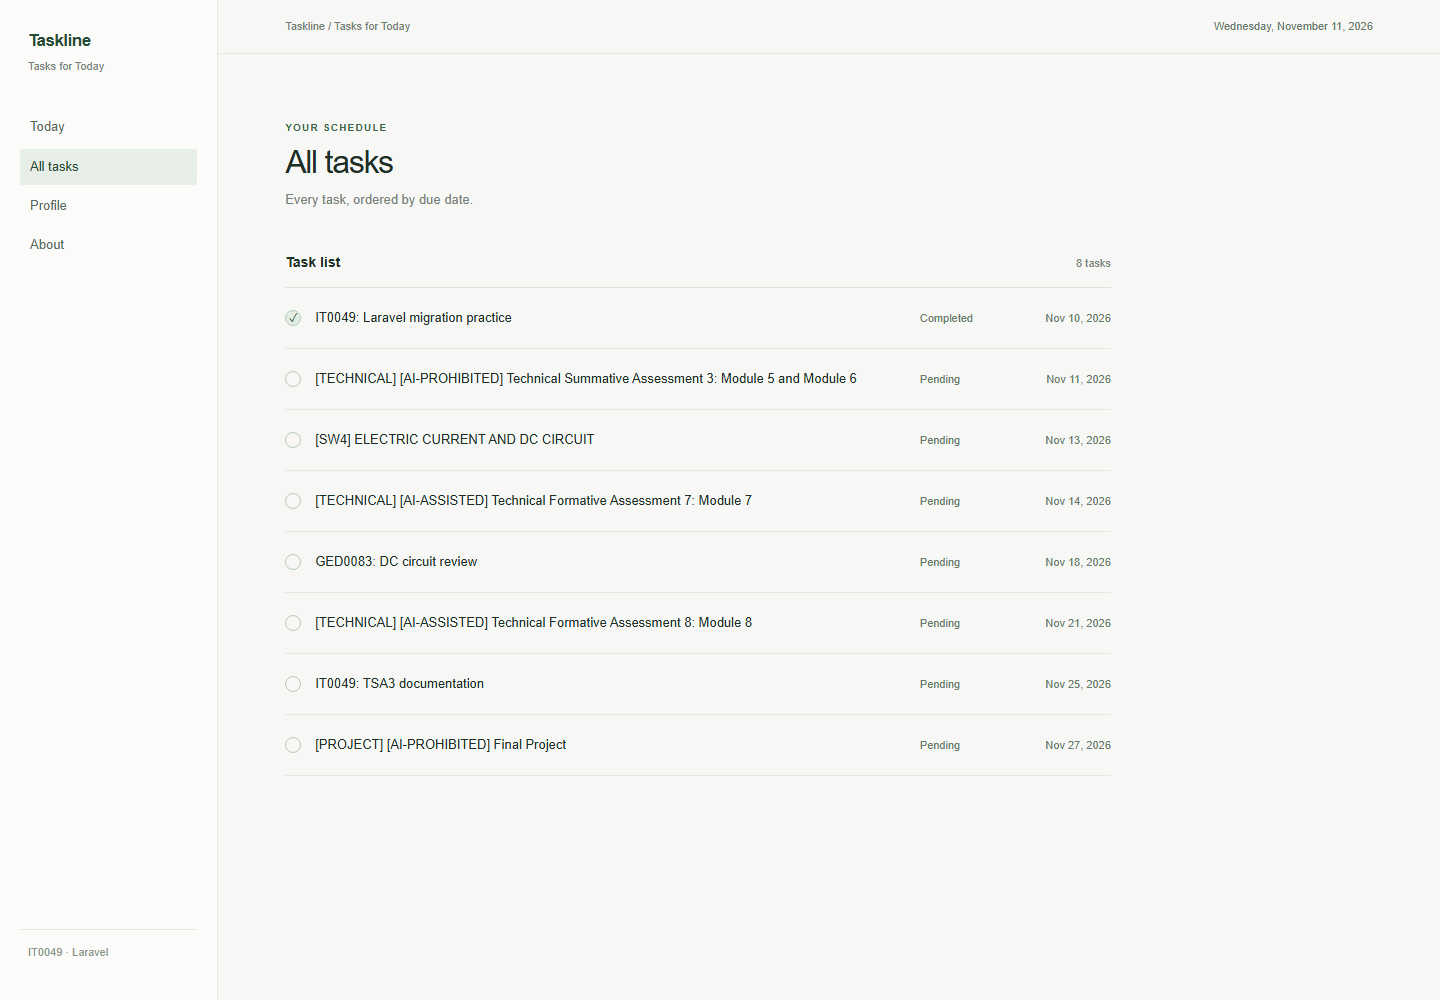
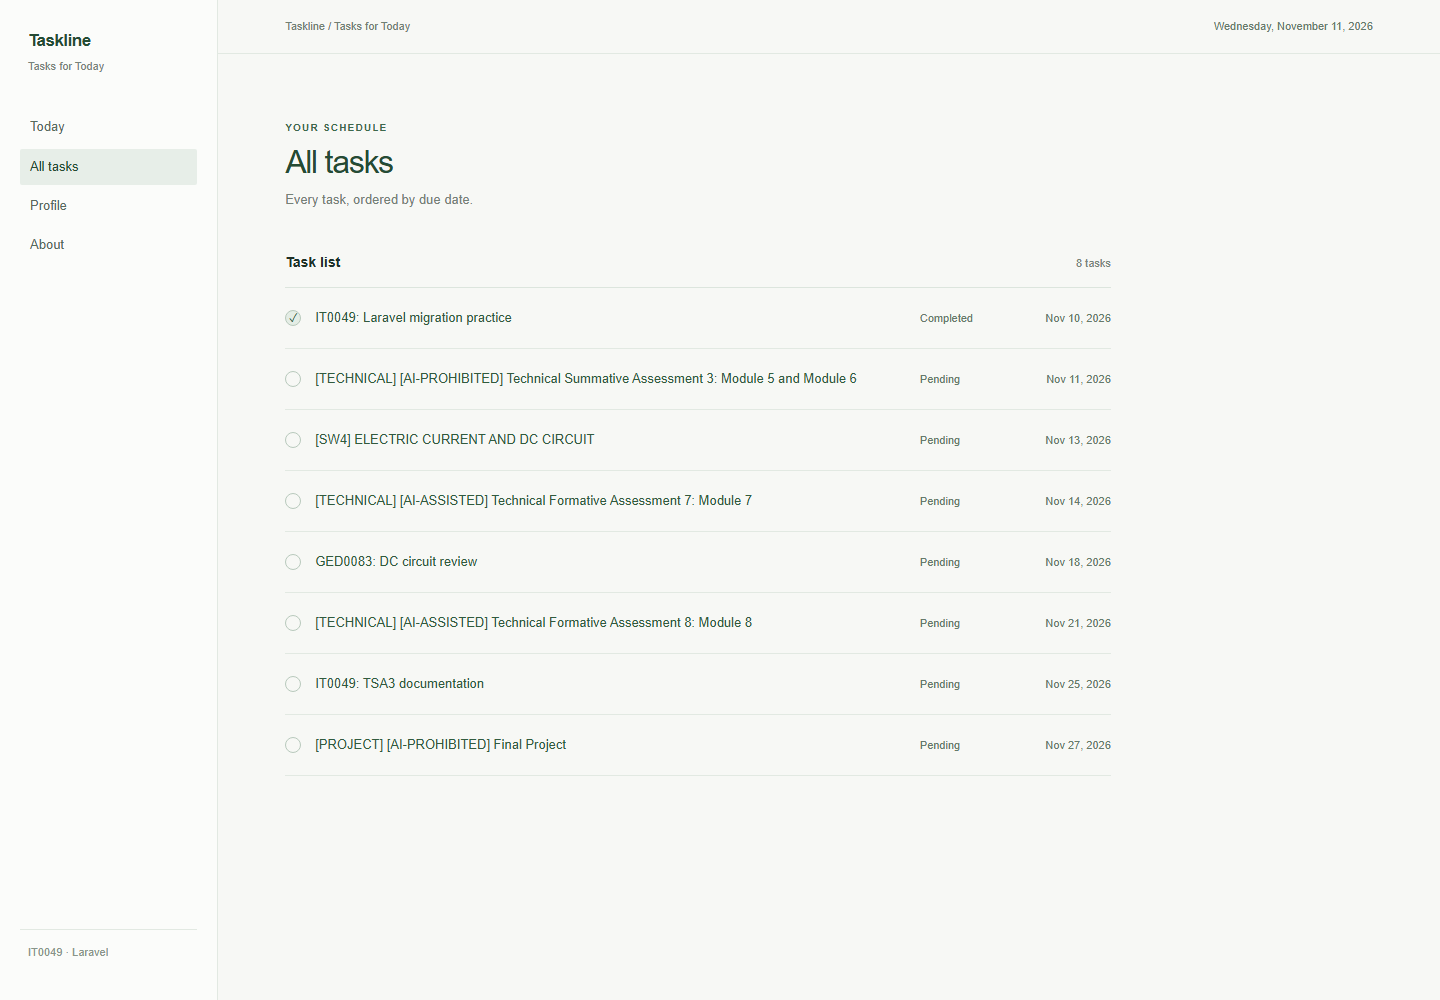
Add green accents to page titles

diff --git a/public/css/style.css b/public/css/style.css
@@ -1,2 +1,2 @@
 :root{font-family:Arial,Helvetica,sans-serif;color:#1f2f27;background:#f7f8f5;font-synthesis:none}
-*{box-sizing:border-box}body{margin:0;font-size:14px;line-height:1.55}a{color:inherit;text-decoration:none}.shell{min-height:100vh}.sidebar{position:fixed;inset:0 auto 0 0;width:218px;padding:28px 20px;background:#fbfcfa;border-right:1px solid #e2e9e2;display:flex;flex-direction:column}.brand{font-size:17px;font-weight:700;letter-spacing:-.03em;color:#254b34;margin:0 8px}.sidebar-note{margin:4px 8px 34px;font-size:11px;color:#78847a}.sidebar nav{display:grid;gap:3px}.sidebar nav a{padding:8px 10px;color:#586b5e;border-radius:2px;font-size:13px}.sidebar nav a:hover,.sidebar nav a.active{background:#e7eee8;color:#254b34}.sidebar-footer{margin-top:auto;padding:14px 8px 0;border-top:1px solid #e2e9e2;font-size:11px;color:#89958a}main{margin-left:218px}.topbar{min-height:54px;padding:0 5.5%;display:flex;justify-content:space-between;align-items:center;border-bottom:1px solid #e2e9e2;color:#718073;font-size:11px}.content{max-width:960px;padding:66px 5.5% 80px}.page-heading{margin-bottom:42px}.eyebrow{font-size:10px;font-weight:700;letter-spacing:.12em;color:#3d694c;margin:0 0 8px}.page-heading h1{margin:0;font-size:32px;font-weight:500;letter-spacing:-.04em;line-height:1.15}.page-heading>p:last-child{margin:10px 0 0;color:#758177;font-size:13px}.list-section{max-width:850px}.list-heading{display:flex;justify-content:space-between;align-items:center;border-bottom:1px solid #dce5dd;padding-bottom:13px}.list-heading h2{font-size:14px;margin:0;font-weight:600}.list-heading span{font-size:11px;color:#78847a}.task-row{display:grid;grid-template-columns:18px minmax(0,1fr) 85px 94px;align-items:center;gap:12px;min-height:61px;border-bottom:1px solid #e2e9e2}.task-mark{display:inline-flex;align-items:center;justify-content:center;width:16px;height:16px;border:1px solid #b8c9bc;border-radius:50%;color:#315b3e;font-size:12px}.task-mark.done{background:#e4ede5}.task-title{font-size:13px;line-height:1.4}.status,time{font-size:11px;color:#677a6b}time{text-align:right}.empty{padding:24px 0;color:#7b887d}.profile{display:flex;gap:25px;max-width:620px;padding-top:12px}.initial{width:68px;height:68px;display:grid;place-items:center;background:#e6eee7;color:#2e5139;font-size:27px}.profile h2{font-size:23px;margin:0;font-weight:500}.muted{margin:2px 0 24px;color:#718073}.profile dl,.about dl{margin:0}.profile dl div,.about dl div{display:grid;grid-template-columns:135px 1fr;padding:12px 0;border-bottom:1px solid #e2e9e2}.profile dt,.about dt{color:#79867c;font-size:12px}.profile dd,.about dd{margin:0;font-size:13px}.about{max-width:650px}.about>p{margin:0 0 30px;color:#536457;line-height:1.8}@media(max-width:700px){.sidebar{position:static;width:auto;padding:16px;border-right:0;border-bottom:1px solid #e2e9e2}.brand,.sidebar-note{margin-left:0}.sidebar-note{margin-bottom:14px}.sidebar nav{display:flex;flex-wrap:wrap}.sidebar-footer{display:none}main{margin-left:0}.topbar{padding:12px 18px;gap:10px}.content{padding:40px 18px}.task-row{grid-template-columns:18px minmax(0,1fr) 70px;gap:8px;padding:10px 0}.task-row time{grid-column:2;grid-row:2;text-align:left}.task-row .status{grid-column:3;grid-row:1}.profile{gap:16px}}
+*{box-sizing:border-box}body{margin:0;font-size:14px;line-height:1.55}a{color:inherit;text-decoration:none}.shell{min-height:100vh}.sidebar{position:fixed;inset:0 auto 0 0;width:218px;padding:28px 20px;background:#fbfcfa;border-right:1px solid #e2e9e2;display:flex;flex-direction:column}.brand{font-size:17px;font-weight:700;letter-spacing:-.03em;color:#254b34;margin:0 8px}.sidebar-note{margin:4px 8px 34px;font-size:11px;color:#78847a}.sidebar nav{display:grid;gap:3px}.sidebar nav a{padding:8px 10px;color:#586b5e;border-radius:2px;font-size:13px}.sidebar nav a:hover,.sidebar nav a.active{background:#e7eee8;color:#254b34}.sidebar-footer{margin-top:auto;padding:14px 8px 0;border-top:1px solid #e2e9e2;font-size:11px;color:#89958a}main{margin-left:218px}.topbar{min-height:54px;padding:0 5.5%;display:flex;justify-content:space-between;align-items:center;border-bottom:1px solid #e2e9e2;color:#718073;font-size:11px}.content{max-width:960px;padding:66px 5.5% 80px}.page-heading{margin-bottom:42px}.eyebrow{font-size:10px;font-weight:700;letter-spacing:.12em;color:#3d694c;margin:0 0 8px}.page-heading h1{margin:0;color:#254b34;font-size:32px;font-weight:500;letter-spacing:-.04em;line-height:1.15}.page-heading>p:last-child{margin:10px 0 0;color:#758177;font-size:13px}.list-section{max-width:850px}.list-heading{display:flex;justify-content:space-between;align-items:center;border-bottom:1px solid #dce5dd;padding-bottom:13px}.list-heading h2{font-size:14px;margin:0;font-weight:600}.list-heading span{font-size:11px;color:#78847a}.task-row{display:grid;grid-template-columns:18px minmax(0,1fr) 85px 94px;align-items:center;gap:12px;min-height:61px;border-bottom:1px solid #e2e9e2}.task-mark{display:inline-flex;align-items:center;justify-content:center;width:16px;height:16px;border:1px solid #b8c9bc;border-radius:50%;color:#315b3e;font-size:12px}.task-mark.done{background:#e4ede5}.task-title{color:#315b3e;font-size:13px;line-height:1.4}.status,time{font-size:11px;color:#677a6b}time{text-align:right}.empty{padding:24px 0;color:#7b887d}.profile{display:flex;gap:25px;max-width:620px;padding-top:12px}.initial{width:68px;height:68px;display:grid;place-items:center;background:#e6eee7;color:#2e5139;font-size:27px}.profile h2{color:#254b34;font-size:23px;margin:0;font-weight:500}.muted{margin:2px 0 24px;color:#718073}.profile dl,.about dl{margin:0}.profile dl div,.about dl div{display:grid;grid-template-columns:135px 1fr;padding:12px 0;border-bottom:1px solid #e2e9e2}.profile dt,.about dt{color:#79867c;font-size:12px}.profile dd,.about dd{margin:0;font-size:13px}.about{max-width:650px}.about>p{margin:0 0 30px;color:#536457;line-height:1.8}@media(max-width:700px){.sidebar{position:static;width:auto;padding:16px;border-right:0;border-bottom:1px solid #e2e9e2}.brand,.sidebar-note{margin-left:0}.sidebar-note{margin-bottom:14px}.sidebar nav{display:flex;flex-wrap:wrap}.sidebar-footer{display:none}main{margin-left:0}.topbar{padding:12px 18px;gap:10px}.content{padding:40px 18px}.task-row{grid-template-columns:18px minmax(0,1fr) 70px;gap:8px;padding:10px 0}.task-row time{grid-column:2;grid-row:2;text-align:left}.task-row .status{grid-column:3;grid-row:1}.profile{gap:16px}}
